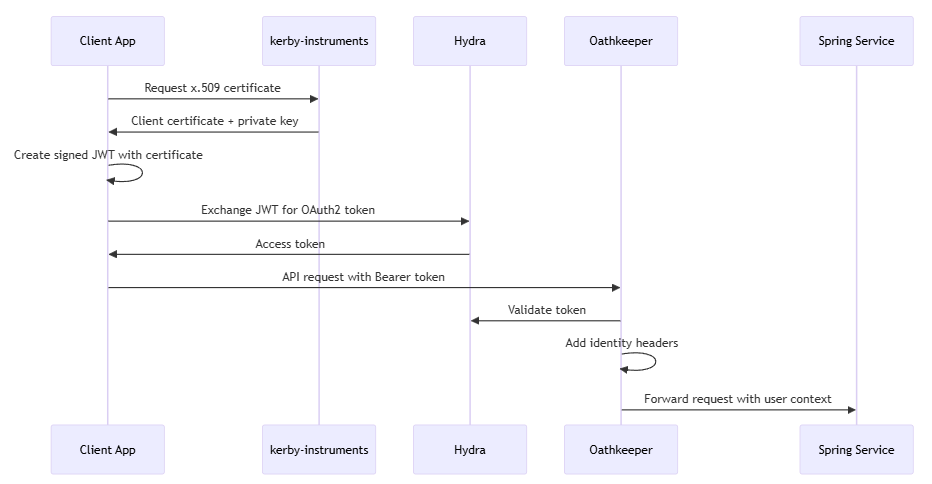
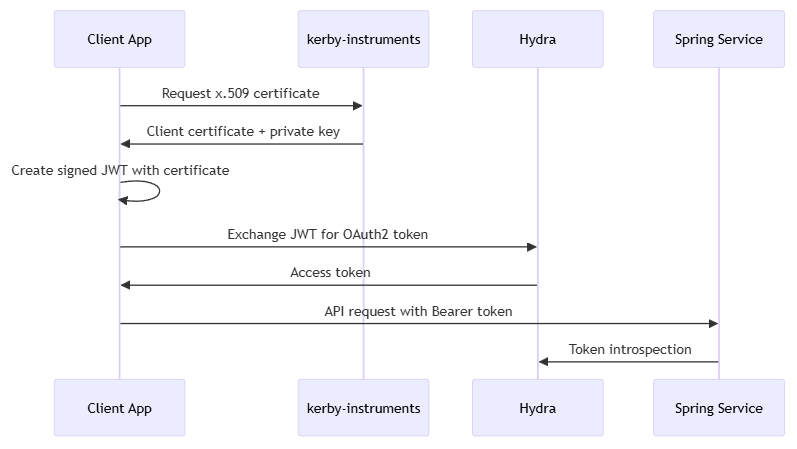
chore: update doc

diff --git a/conf/Ory/drafts/README.md b/conf/Ory/drafts/README.md
@@ -75,7 +75,6 @@ sequenceDiagram
     participant C as Client App
     participant KI as kerby-instruments  
     participant H as Hydra
-    participant O as Oathkeeper
     participant S as Spring Service
 
     C->>KI: Request x.509 certificate
@@ -83,10 +82,9 @@ sequenceDiagram
     C->>C: Create signed JWT with certificate
     C->>H: Exchange JWT for OAuth2 token
     H->>C: Access token
-    C->>O: API request with Bearer token
-    O->>H: Validate token
-    O->>O: Add identity headers
-    O->>S: Forward request with user context
+    C->>S: API request with Bearer token
+    S->>H: Token introspection
+
 ```
 
 ### Key Integration Points
